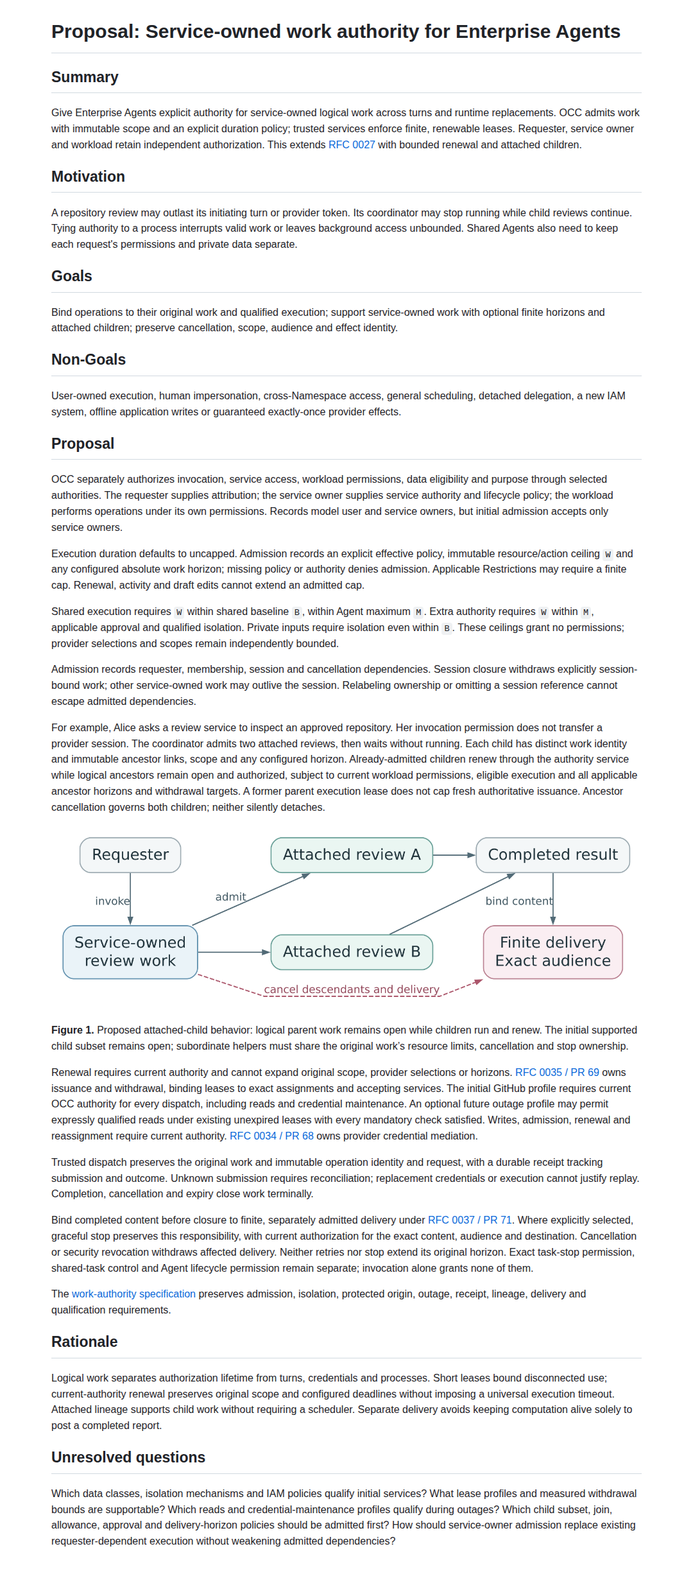
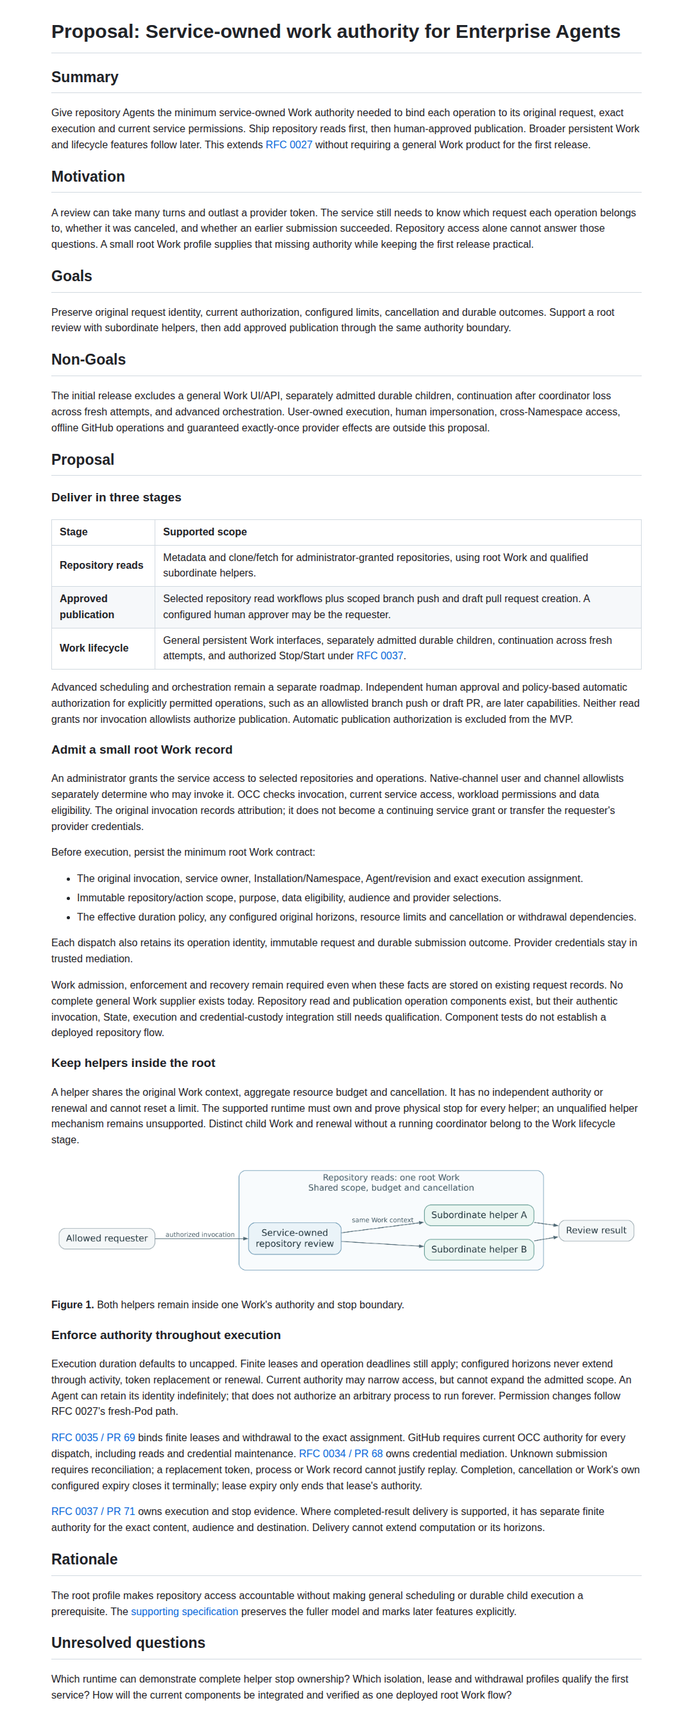
docs: scope initial Work authority and defer durable children

Changed region(s): [[0.0611, 0.0, 0.9167, 0.9951]]

diff --git a/rfcs/0036/work-authority-spec.md b/rfcs/0036/work-authority-spec.md
@@ -2,7 +2,7 @@
 
 This supporting specification expands [RFC 0036](../0036-turn-bound-delegated-authority.md), proposed in [PR #70](https://github.com/openclaw/rfcs/pull/70). It describes proposed behavior, not an implemented or qualified production guarantee.
 
-Logical work gives service-owned Enterprise Agents bounded authority across messages, model turns and runtime replacements. OCC records the verified requester, service owner, immutable scope and an explicit duration policy with any configured work horizon. Trusted services enforce finite, renewable leases tied to the original work and exact execution. Invocation permission, service permission and data access remain separate. The proposal reuses OCC, selected IAM authorities, Restrictions and trusted broker enforcement.
+Logical Work gives service-owned Enterprise Agents scoped authority across messages and model turns. The initial profile admits one root Work with subordinate helpers in the same execution context. Continuation across replacement attempts and separately admitted durable children are later capabilities. OCC records the verified requester, service owner, immutable scope and explicit duration policy with any configured work horizon. Trusted services enforce finite, renewable leases tied to the original Work and exact execution. Invocation permission, service permission and data access remain separate.
 
 The proposal extends [RFC 0027's IAM and authority model](../0027-openclaw-enterprise.md#iam-and-authority). Responsibilities across the series are:
 
@@ -12,6 +12,32 @@ The proposal extends [RFC 0027's IAM and authority model](../0027-openclaw-enter
 | [0035 / PR #69](https://github.com/openclaw/rfcs/pull/69) | Execution assignment, enforcement-lease issuance and withdrawal. |
 | [0036 / PR #70](https://github.com/openclaw/rfcs/pull/70) | Logical work admission and closure, bounded renewal authorization and attached lineage. |
 | [0037 / PR #71](https://github.com/openclaw/rfcs/pull/71) | Execution, recovery, completed-result delivery and runtime lifecycle. |
+
+## Selected Delivery Sequence
+
+These stages define the supported scope. Later requirements below do not expand the initial profile.
+
+| Stage | Admission and operations |
+| --- | --- |
+| **Repository reads** | One service-owned root Work, metadata and clone/fetch for administrator-granted repositories, and subordinate helpers only where complete stop ownership is qualified. |
+| **Approved publication** | Selected repository read workflows plus scoped branch push and draft PR creation. Publication requires a configured human approver; the requester is eligible when configured. Root Work and the same subordinate-helper boundary remain the default. |
+| **Work lifecycle** | General persistent Work UI/API, separately admitted durable children, continuation after coordinator loss across fresh attempts, and separately authorized Stop/Start under RFC 0037. Each needs its own qualification. |
+
+Advanced scheduling and orchestration remain a separate roadmap. Independent human approval is a later option. Automatic authorization by policy for explicitly permitted operations, such as an allowlisted branch push or draft PR, is also later; the MVP does not automatically authorize publication. Approval covers the exact publication content, repository and branch/destination under the publication contract in RFC 0034. An edit invalidates approval for the prior content. An approval neither grants repository access nor expands the original Work ceiling, audience or horizons.
+
+The initial administrative model is a direct service grant for selected repositories and operations. Native-channel user and channel allowlists govern invocation separately. They cannot confer service repository access, and a service grant cannot admit an otherwise unauthorized invocation. Richer IAM administration is not required to express this initial policy.
+
+### Minimum root Work remains required
+
+Root Work admission must durably bind the original authenticated invocation, service owner, Installation/Namespace, Agent/revision, exact assignment, immutable repository/action scope, purpose, eligible data, audience and provider selections. It records the effective duration policy, any original configured horizons, aggregate resource limits and cancellation or withdrawal dependencies. Each operation retains its original identity, immutable request, submission state and outcome. Provider credential custody remains with trusted mediation.
+
+The root has no parent or independent child authority. Existing Agent/request records may host these facts; admission, current service authorization, enforcement and recovery remain required.
+
+Repository read and publication operation owners exist as components; general Work ports are declarations. No complete general Work supplier exists today. Authentic invocation, State, execution and credential-custody suppliers must be integrated and qualified for the read release. Component checks do not establish a released or deployed repository flow.
+
+### Initial helper boundary
+
+A subordinate helper remains in the root's original Work and execution context, with the same authority, aggregate resource budget, cancellation and physical stop ownership. It has no independent renewal or admission. Creation cannot reset a duration or resource limit. The supported runtime must demonstrate physical stop for every helper; mechanisms that lack this custody remain unsupported. Request labels and logical subagent names do not prove isolation.
 
 ## Principals and Admission
 
@@ -37,7 +63,7 @@ Session closure withdraws work explicitly bound to that session. Service-owned w
 
 ### Admit an explicit duration policy
 
-An Agent may persist indefinitely; a process, execution attempt and logical work have separate lifetimes. Execution duration defaults to uncapped, meaning elapsed time alone does not end an attempt. Completion, cancellation, service stop, required-authority withdrawal and independently configured resource or spend limits still apply.
+An Agent may retain its identity indefinitely; that does not authorize an arbitrary process to run forever. A process, execution attempt and logical Work have separate lifetimes. Execution duration defaults to uncapped, meaning elapsed time alone does not end an attempt. Completion, cancellation, service stop, required-authority withdrawal and independently configured resource or spend limits still apply.
 
 Admission resolves configuration and applicable Restrictions into an explicit immutable finite-or-uncapped selection. Restrictions may require or narrow a cap. A finite attempt cap runs from its original dispatch anchor, including startup and waiting; a configured absolute work horizon remains binding across attempts. Missing authority, or missing or unsupported persisted policy, denies execution. A creation-time default does not reinterpret historical records.
 
@@ -69,13 +95,13 @@ The [memory ACL proposal](https://github.com/openclaw/rfcs/pull/30) remains a se
 
 A qualified compartment must prevent retained code or state from acquiring another work's handles, private data or authority. Request labels, different logical subagents and narrowed opaque handles do not prove isolation. Unsupported isolation denies the affected work.
 
-A persistent shared Agent must distinguish work requested by different people. An old process cannot acquire a later request's permissions, and shared repository access cannot expose another person's private attachment. Work identity, runtime identity and permission to share data answer different questions.
+A persistent shared Agent must distinguish work requested by different people. An old process cannot acquire a later request's permissions, and shared repository access cannot expose another person's private attachment. Permission changes follow RFC 0027's fresh-Pod path; narrowing a handle in an existing Pod does not replace that requirement. Work identity, runtime identity and permission to share data answer different questions.
 
 ## Durable Records
 
 ### Separate work, execution, leases and effects
 
-OCC owns internal durable records attached to existing Agent and request identities. They do not introduce a user-facing execution resource between an AgentRevision and its workload.
+OCC owns internal durable records attached to existing Agent and request identities. They do not introduce a user-facing execution resource between an AgentRevision and its workload. The read stage needs root admission, the exact assignment, finite leases and durable operation receipts. Its lineage is explicitly root-only. The general Work UI/API and independent child/attempt lifecycle remain in the Work lifecycle stage; separately admitted delivery applies only where that feature is supported.
 
 | Record | Required contents |
 | --- | --- |
@@ -91,7 +117,7 @@ The work record also retains admitted provider selections and scopes. RFC 0034's
 
 Durably record work admission before acknowledging it. Duplicate keys resolve to the same admission; conflicting inputs deny. An admission receipt proves neither tool dispatch nor completion and creates no implicit execution queue. Wire formats remain open.
 
-Logical work can span execution attempts under its admitted duration policy. A message acknowledgement, model response, certificate renewal, provider-token refresh or lost connection neither completes work nor renews its authority. Work closes terminally on completion, cancellation or expiry according to its admitted policy. Recovery cannot reopen it.
+In the Work lifecycle stage, logical Work can span execution attempts under its admitted duration policy. The read stage retains durable admission and effect history but does not offer coordinator-loss continuation across fresh attempts. A message acknowledgement, model response, certificate renewal, provider-token refresh or lost connection neither completes Work nor renews its authority. Completion, cancellation or Work's own configured expiry closes it terminally. Lease expiry ends only that lease's authority; an open Work still requires current authorization for renewal. Recovery cannot reopen closed Work.
 
 OCC admits and closes work and authorizes bounded lease renewal. RFC 0035 owns enforcement-lease issuance and withdrawal; RFC 0037 owns execution, recovery and delivery lifecycle.
 
@@ -104,7 +130,7 @@ An opaque work reference is bound to an authenticated presenter and protected or
 ### Admission and dispatch sequence
 
 1. Authorize invocation, service access, workload access, data eligibility and exact scope through OCC and the selected authorities. Freeze the work ceiling, effective duration policy and any configured work horizon.
-2. Select a qualified execution under current authority. Replacement requires RFC 0037's predecessor evidence. A former assignment's lease cannot authorize its successor.
+2. Select a qualified execution under current authority. A former assignment's lease cannot authorize its successor. From the initial release, any successor must have observed termination of the old writer before writing retained state, alongside assignment fencing and the fresh-Pod rule for permission changes. RFC 0037 owns that evidence. Continuing the same Work across replacement attempts remains a later Work lifecycle capability.
 3. Issue a finite enforcement lease in an authoritative order with cancellation and revocation. Bind it to the work, assignment and accepting service.
 4. At dispatch, authenticate the workload and establish original-work origin through the protected connector path. Derive action and resource from the actual operation, including relevant request-body and redirect behavior. Check the lease, applicable policies, purpose, scope, allowances and mandatory evidence under the selected freshness profile.
 5. Durably reserve dispatch responsibility and allowances under the original operation key. Preserve request identity and bytes through submission and record the observed outcome. Duplicates resolve the original dispatch state; pending or unknown submission cannot trigger another submission.
@@ -144,7 +170,7 @@ Ordinary profiles may target withdrawal on the scale of minutes; sensitive profi
 
 RFC 0035 owns each profile's withdrawal start point, external-IAM observation delay, issuer fencing, holder enforcement delay, trusted-clock assumptions and provider-effect boundary. Requested withdrawal and proven effective withdrawal remain distinct.
 
-A disconnected holder denies new dispatch by its original deadline. Reconnection or restart cannot move that deadline. Tightening a target must account for outstanding leases before advertising the tighter guarantee: new policy cannot retroactively shorten an unseen old lease.
+Selected GitHub dispatch stops whenever current OCC authorization is unavailable. A future qualified outage-read profile must stop by its original lease deadline; reconnection or restart cannot move that deadline. Tightening a target must account for outstanding leases before advertising the tighter guarantee: new policy cannot retroactively shorten an unseen old lease.
 
 ### Preserve state through restart and collection
 
@@ -176,7 +202,9 @@ Missing provider or inventory evidence denies maintenance. RFC 0034 retains its 
 
 In a selected future outage profile, finite enforcement leases would bound disconnected use while allowing expressly qualified reads to finish. Requiring current authority for writes and renewal makes the availability tradeoff explicit.
 
-## Attached Children
+## Later Capability: Attached Children
+
+This section specifies the Work lifecycle stage. Initial repository Work uses the root and subordinate-helper profile above. Independent child admission and continuation without a running coordinator are not initial release requirements.
 
 ### Admit distinct, bounded child work
 
@@ -184,11 +212,7 @@ An attached child has a distinct work identity, immutable parent/ancestor links,
 
 A child need not create another Agent. A logical child in a shared process gains no separate security boundary.
 
-### Select the initial helper and child subset separately
-
-The initial supported subset remains open. Subordinate helpers can remain part of one work/attempt only when original authority, aggregate resource limits, cancellation and physical stop ownership cover them. Their creation cannot reset the original attempt budget or grant independent renewal.
-
-Separately admitted children require their own scope, authority, lineage, status and cleanup. The following renewal and join rules describe that proposed capability; they do not make every independent-child mechanism an initial implementation gate. Root work and owned-helper cancellation still require complete enforcement for any supported execution.
+Separately admitted children require their own scope, authority, lineage, status and cleanup. Initial root/helper cancellation and physical stop remain mandatory independently of this later capability.
 
 ### Renew without a running parent process
 
@@ -220,11 +244,13 @@ Attached lineage supports ordinary child work without requiring a general schedu
 
 ### Admit finite delivery before closure
 
-Before logical work closes, bind its completed result to RFC 0037's finite, separately admitted delivery responsibility. Delivery may be admitted with the original work; binding content at completion must satisfy the admitted output contract.
+Where completed-result delivery is supported, bind the completed result to RFC 0037's finite, separately admitted delivery responsibility before logical Work closes. Delivery may be admitted with the original Work; binding content at completion must satisfy the admitted output contract. This section does not admit GitHub publication: the publication stage separately requires exact publication scope and configured human approval. A delivered report cannot implicitly push a branch or create a PR.
 
 The exact audience, destination and original absolute delivery horizon cannot grow. Creating delivery responsibility after closure requires fresh admission.
 
 ### Authorize task and Agent controls separately
+
+Initial root/helper cancellation requires authority withdrawal, physical stop evidence and terminal closure. The Work lifecycle stage adds richer controls; earlier services may qualify narrower controls or delivery. Their permissions remain separate wherever exposed.
 
 Stop task targets one exact work and its owned helpers or admitted descendants. Own-task, shared-task and Agent lifecycle permissions remain distinct; permission to invoke the service or view its inventory does not imply permission to stop other work. Each new control requires current exact-resource authorization and attributable durable acceptance. Already-admitted protective cleanup retains its independent stop responsibility when ordinary continuation authority is unavailable.
 
@@ -258,10 +284,12 @@ This specification does not establish an implemented issuer, trusted transport o
 | Authority changes | Allow/deny, shrinking permissions, expiry and policy recovery without scope growth. |
 | Durable admission and effects | Duplicate admission, conflicting inputs, crash uncertainty and retained unknown provider outcomes. |
 | Renewal and duration | Finite leases for explicit uncapped work; finite configured caps retained across turns and provider-token replacement; missing policy denied and no automatic horizon extension. |
-| Helpers and children | Aggregate budget, cancellation and physical stop custody for subordinate helpers; for separately admitted children, renewal without a parent process and ancestor cancellation. |
-| Controls and delivery | Separate exact-task/shared-task/Agent permissions; durable stopped intent; exact-audience delivery under selected graceful-stop policy and withdrawal after cancellation. |
+| Helpers | Repository reads: shared original context and aggregate budget, cancellation and demonstrated physical stop custody; unsupported helper mechanisms denied. |
+| Publication | Approved publication: exact content and destination, current repository access, configured human approval including an eligible requester, and no automatic publication authorization. |
+| Durable children and continuations | Work lifecycle: separate child admission, parentless renewal, ancestor cancellation, required joins and qualified continuation across fresh attempts. |
+| Controls and delivery | Initial root/helper stop and terminal closure; separate exact-resource control permissions wherever exposed. The Work lifecycle stage adds richer controls and selected graceful delivery, with exact audience and cancellation withdrawal. |
 | Outage and restart | Initial GitHub reads and maintenance denied without current OCC authority; any future qualified-read profile distinguished from writes and admission; preserved deadlines, stale-issuer fencing and measured withdrawal for each selected profile. |
-| Replacement | Predecessor exclusion and denial of old assignments while their credentials remain valid. |
+| Assignment and replacement | Initially: fresh Pod on permission changes, denial of old assignments while credentials remain valid, and observed old-writer termination before any successor writes retained state. Work lifecycle: qualified continuation of the same Work across replacement attempts. |
 
 Unknown provider outcomes must remain unknown rather than becoming manufactured successful retries. Audit preserves attribution and safe references while excluding credentials and message bodies.
 
@@ -271,6 +299,8 @@ Unknown provider outcomes must remain unknown rather than becoming manufactured 
 - Which selected IAM policies govern continued invocation eligibility, requester withdrawal and audience checks?
 - Which protected origin and compartment mechanisms qualify each supported Harness and runtime?
 - What numerical lease profiles, clock assumptions and issue/revoke protocol meet measured withdrawal targets?
-- Which operations qualify as outage reads, and which providers support bounded read-only credential maintenance?
-- Which initial child subset and join, allowance, approval and delivery-horizon policies should the first supported services admit?
-- How should service-owner admission integrate with existing original-requester dependencies, and which default Stop/graceful-drain semantics should be selected?
+- Which original invocation, State, execution and custody suppliers will complete and qualify the initial root Work flow?
+- Which runtimes can demonstrate complete physical stop custody for subordinate helpers?
+- For later stages, which child join, allowance and delivery-horizon policies should be admitted, and which Stop/graceful-drain semantics should be selected?
+- For a later outage profile, which reads and providers can qualify bounded read-only credential maintenance?
+- How should service-owner admission integrate with existing original-requester dependencies without weakening their cancellation or withdrawal behavior?

diff --git a/rfcs/0036-turn-bound-delegated-authority.md b/rfcs/0036-turn-bound-delegated-authority.md
@@ -13,48 +13,66 @@ rfc_pr: https://github.com/openclaw/rfcs/pull/70
 
 ## Summary
 
-Give Enterprise Agents explicit authority for service-owned logical work across turns and runtime replacements. OCC admits work with immutable scope and an explicit duration policy; trusted services enforce finite, renewable leases. Requester, service owner and workload retain independent authorization. This extends [RFC 0027](0027-openclaw-enterprise.md#iam-and-authority) with bounded renewal and attached children.
+Give repository Agents the minimum service-owned Work authority needed to bind each operation to its original request, exact execution and current service permissions. Ship repository reads first, then human-approved publication. Broader persistent Work and lifecycle features follow later. This extends [RFC 0027](0027-openclaw-enterprise.md#iam-and-authority) without requiring a general Work product for the first release.
 
 ## Motivation
 
-A repository review may outlast its initiating turn or provider token. Its coordinator may stop running while child reviews continue. Tying authority to a process interrupts valid work or leaves background access unbounded. Shared Agents also need to keep each request's permissions and private data separate.
+A review can take many turns and outlast a provider token. The service still needs to know which request each operation belongs to, whether it was canceled, and whether an earlier submission succeeded. Repository access alone cannot answer those questions. A small root Work profile supplies that missing authority while keeping the first release practical.
 
 ## Goals
 
-Bind operations to their original work and qualified execution; support service-owned work with optional finite horizons and attached children; preserve cancellation, scope, audience and effect identity.
+Preserve original request identity, current authorization, configured limits, cancellation and durable outcomes. Support a root review with subordinate helpers, then add approved publication through the same authority boundary.
 
 ## Non-Goals
 
-User-owned execution, human impersonation, cross-Namespace access, general scheduling, detached delegation, a new IAM system, offline application writes or guaranteed exactly-once provider effects.
+The initial release excludes a general Work UI/API, separately admitted durable children, continuation after coordinator loss across fresh attempts, and advanced orchestration. User-owned execution, human impersonation, cross-Namespace access, offline GitHub operations and guaranteed exactly-once provider effects are outside this proposal.
 
 ## Proposal
 
-OCC separately authorizes invocation, service access, workload permissions, data eligibility and purpose through selected authorities. The requester supplies attribution; the service owner supplies service authority and lifecycle policy; the workload performs operations under its own permissions. Records model user and service owners, but initial admission accepts only service owners.
+### Deliver in three stages
 
-Execution duration defaults to uncapped. Admission records an explicit effective policy, immutable resource/action ceiling `W` and any configured absolute work horizon; missing policy or authority denies admission. Applicable Restrictions may require a finite cap. Renewal, activity and draft edits cannot extend an admitted cap.
+| Stage | Supported scope |
+| --- | --- |
+| **Repository reads** | Metadata and clone/fetch for administrator-granted repositories, using root Work and qualified subordinate helpers. |
+| **Approved publication** | Selected repository read workflows plus scoped branch push and draft pull request creation. A configured human approver may be the requester. |
+| **Work lifecycle** | General persistent Work interfaces, separately admitted durable children, continuation across fresh attempts, and authorized Stop/Start under [RFC 0037](https://github.com/openclaw/rfcs/pull/71). |
 
-Shared execution requires `W` within shared baseline `B`, within Agent maximum `M`. Extra authority requires `W` within `M`, applicable approval and qualified isolation. Private inputs require isolation even within `B`. These ceilings grant no permissions; provider selections and scopes remain independently bounded.
+Advanced scheduling and orchestration remain a separate roadmap. Independent human approval and policy-based automatic authorization for explicitly permitted operations, such as an allowlisted branch push or draft PR, are later capabilities. Neither read grants nor invocation allowlists authorize publication. Automatic publication authorization is excluded from the MVP.
 
-Admission records requester, membership, session and cancellation dependencies. Session closure withdraws explicitly session-bound work; other service-owned work may outlive the session. Relabeling ownership or omitting a session reference cannot escape admitted dependencies.
+### Admit a small root Work record
 
-For example, Alice asks a review service to inspect an approved repository. Her invocation permission does not transfer a provider session. The coordinator admits two attached reviews, then waits without running. Each child has distinct work identity and immutable ancestor links, scope and any configured horizon. Already-admitted children renew through the authority service while logical ancestors remain open and authorized, subject to current workload permissions, eligible execution and all applicable ancestor horizons and withdrawal targets. A former parent execution lease does not cap fresh authoritative issuance. Ancestor cancellation governs both children; neither silently detaches.
+An administrator grants the service access to selected repositories and operations. Native-channel user and channel allowlists separately determine who may invoke it. OCC checks invocation, current service access, workload permissions and data eligibility. The original invocation records attribution; it does not become a continuing service grant or transfer the requester's provider credentials.
 
-![A review coordinator and its attached children](0036/work-and-children.png)
+Before execution, persist the minimum root Work contract:
 
-**Figure 1.** Proposed attached-child behavior: logical parent work remains open while children run and renew. The initial supported child subset remains open; subordinate helpers must share the original work’s resource limits, cancellation and stop ownership.
+- The original invocation, service owner, Installation/Namespace, Agent/revision and exact execution assignment.
+- Immutable repository/action scope, purpose, data eligibility, audience and provider selections.
+- The effective duration policy, any configured original horizons, resource limits and cancellation or withdrawal dependencies.
 
-Renewal requires current authority and cannot expand original scope, provider selections or horizons. [RFC 0035 / PR 69](https://github.com/openclaw/rfcs/pull/69) owns issuance and withdrawal, binding leases to exact assignments and accepting services. The initial GitHub profile requires current OCC authority for every dispatch, including reads and credential maintenance. An optional future outage profile may permit expressly qualified reads under existing unexpired leases with every mandatory check satisfied. Writes, admission, renewal and reassignment require current authority. [RFC 0034 / PR 68](https://github.com/openclaw/rfcs/pull/68) owns provider credential mediation.
+Each dispatch also retains its operation identity, immutable request and durable submission outcome. Provider credentials stay in trusted mediation.
 
-Trusted dispatch preserves the original work and immutable operation identity and request, with a durable receipt tracking submission and outcome. Unknown submission requires reconciliation; replacement credentials or execution cannot justify replay. Completion, cancellation and expiry close work terminally.
+Work admission, enforcement and recovery remain required even when these facts are stored on existing request records. No complete general Work supplier exists today. Repository read and publication operation components exist, but their authentic invocation, State, execution and credential-custody integration still needs qualification. Component tests do not establish a deployed repository flow.
 
-Bind completed content before closure to finite, separately admitted delivery under [RFC 0037 / PR 71](https://github.com/openclaw/rfcs/pull/71). Where explicitly selected, graceful stop preserves this responsibility, with current authorization for the exact content, audience and destination. Cancellation or security revocation withdraws affected delivery. Neither retries nor stop extend its original horizon. Exact task-stop permission, shared-task control and Agent lifecycle permission remain separate; invocation alone grants none of them.
+### Keep helpers inside the root
 
-The [work-authority specification](0036/work-authority-spec.md) preserves admission, isolation, protected origin, outage, receipt, lineage, delivery and qualification requirements.
+A helper shares the original Work context, aggregate resource budget and cancellation. It has no independent authority or renewal and cannot reset a limit. The supported runtime must own and prove physical stop for every helper; an unqualified helper mechanism remains unsupported. Distinct child Work and renewal without a running coordinator belong to the Work lifecycle stage.
+
+![Initial root Work and subordinate helpers](0036/work-and-children.png)
+
+**Figure 1.** Both helpers remain inside one Work's authority and stop boundary.
+
+### Enforce authority throughout execution
+
+Execution duration defaults to uncapped. Finite leases and operation deadlines still apply; configured horizons never extend through activity, token replacement or renewal. Current authority may narrow access, but cannot expand the admitted scope. An Agent can retain its identity indefinitely; that does not authorize an arbitrary process to run forever. Permission changes follow RFC 0027's fresh-Pod path.
+
+[RFC 0035 / PR 69](https://github.com/openclaw/rfcs/pull/69) binds finite leases and withdrawal to the exact assignment. GitHub requires current OCC authority for every dispatch, including reads and credential maintenance. [RFC 0034 / PR 68](https://github.com/openclaw/rfcs/pull/68) owns credential mediation. Unknown submission requires reconciliation; a replacement token, process or Work record cannot justify replay. Completion, cancellation or Work's own configured expiry closes it terminally; lease expiry only ends that lease's authority.
+
+[RFC 0037 / PR 71](https://github.com/openclaw/rfcs/pull/71) owns execution and stop evidence. Where completed-result delivery is supported, it has separate finite authority for the exact content, audience and destination. Delivery cannot extend computation or its horizons.
 
 ## Rationale
 
-Logical work separates authorization lifetime from turns, credentials and processes. Short leases bound disconnected use; current-authority renewal preserves original scope and configured deadlines without imposing a universal execution timeout. Attached lineage supports child work without requiring a scheduler. Separate delivery avoids keeping computation alive solely to post a completed report.
+The root profile makes repository access accountable without making general scheduling or durable child execution a prerequisite. The [supporting specification](0036/work-authority-spec.md) preserves the fuller model and marks later features explicitly.
 
 ## Unresolved questions
 
-Which data classes, isolation mechanisms and IAM policies qualify initial services? What lease profiles and measured withdrawal bounds are supportable? Which reads and credential-maintenance profiles qualify during outages? Which child subset, join, allowance, approval and delivery-horizon policies should be admitted first? How should service-owner admission replace existing requester-dependent execution without weakening admitted dependencies?
+Which runtime can demonstrate complete helper stop ownership? Which isolation, lease and withdrawal profiles qualify the first service? How will the current components be integrated and verified as one deployed root Work flow?
